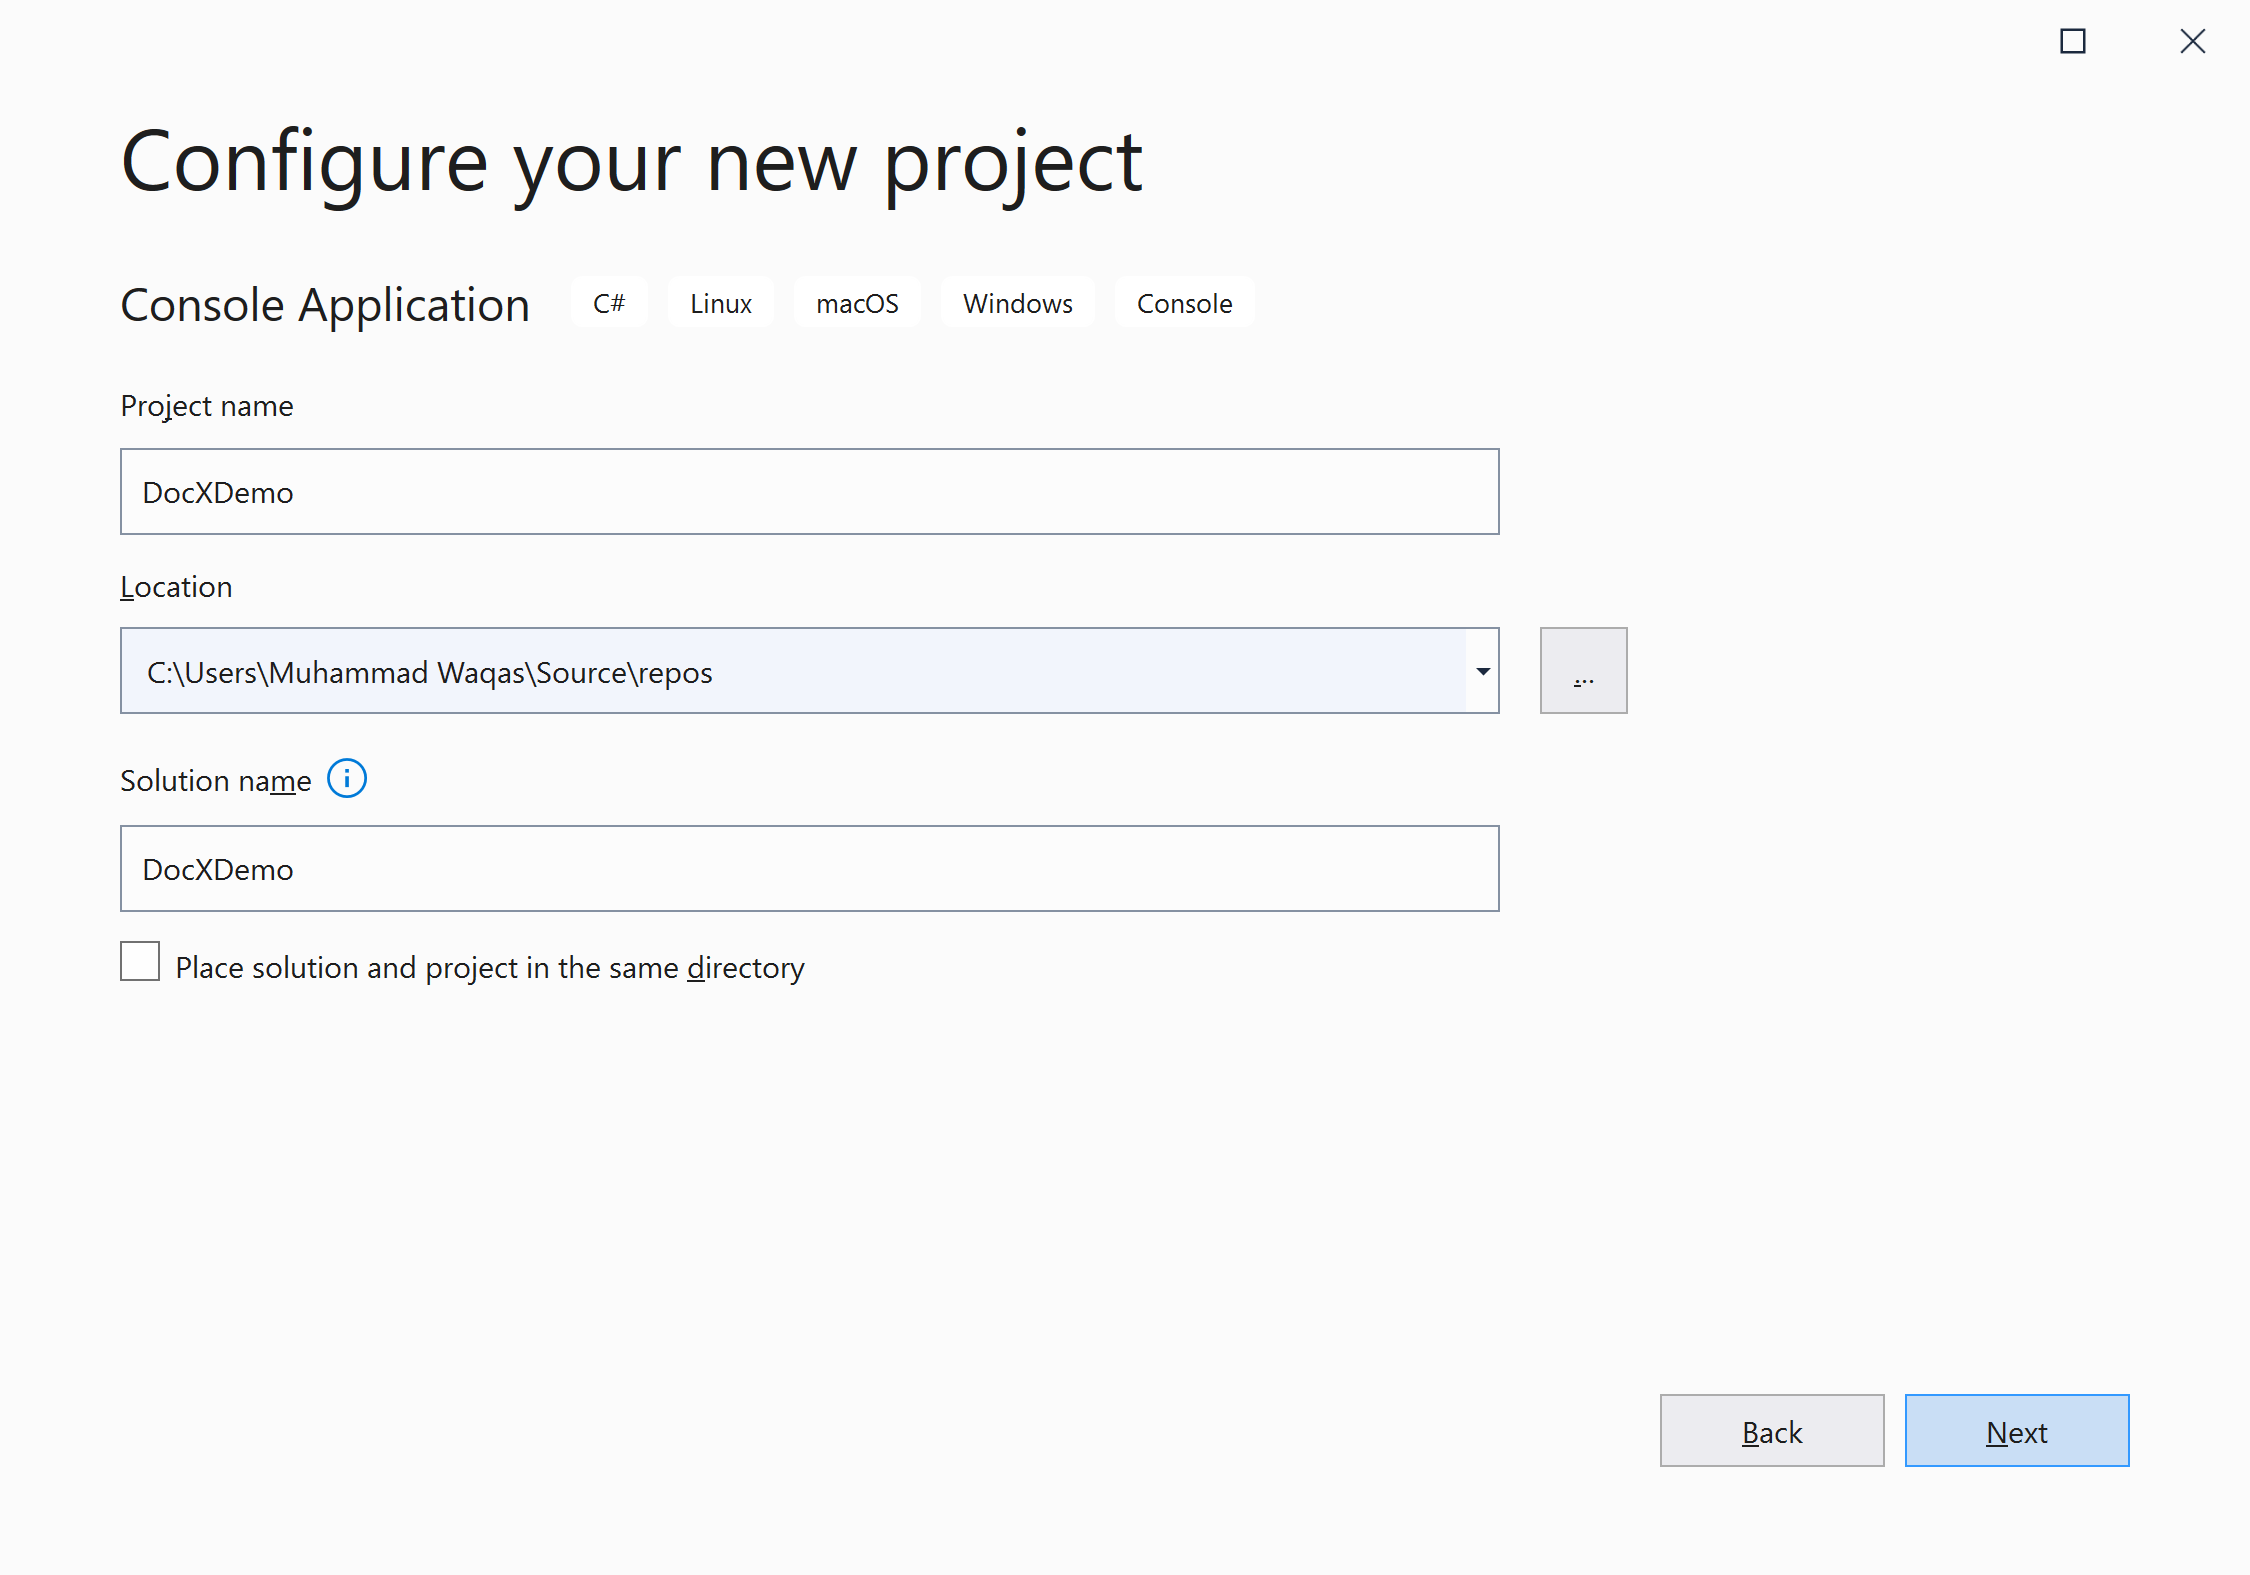
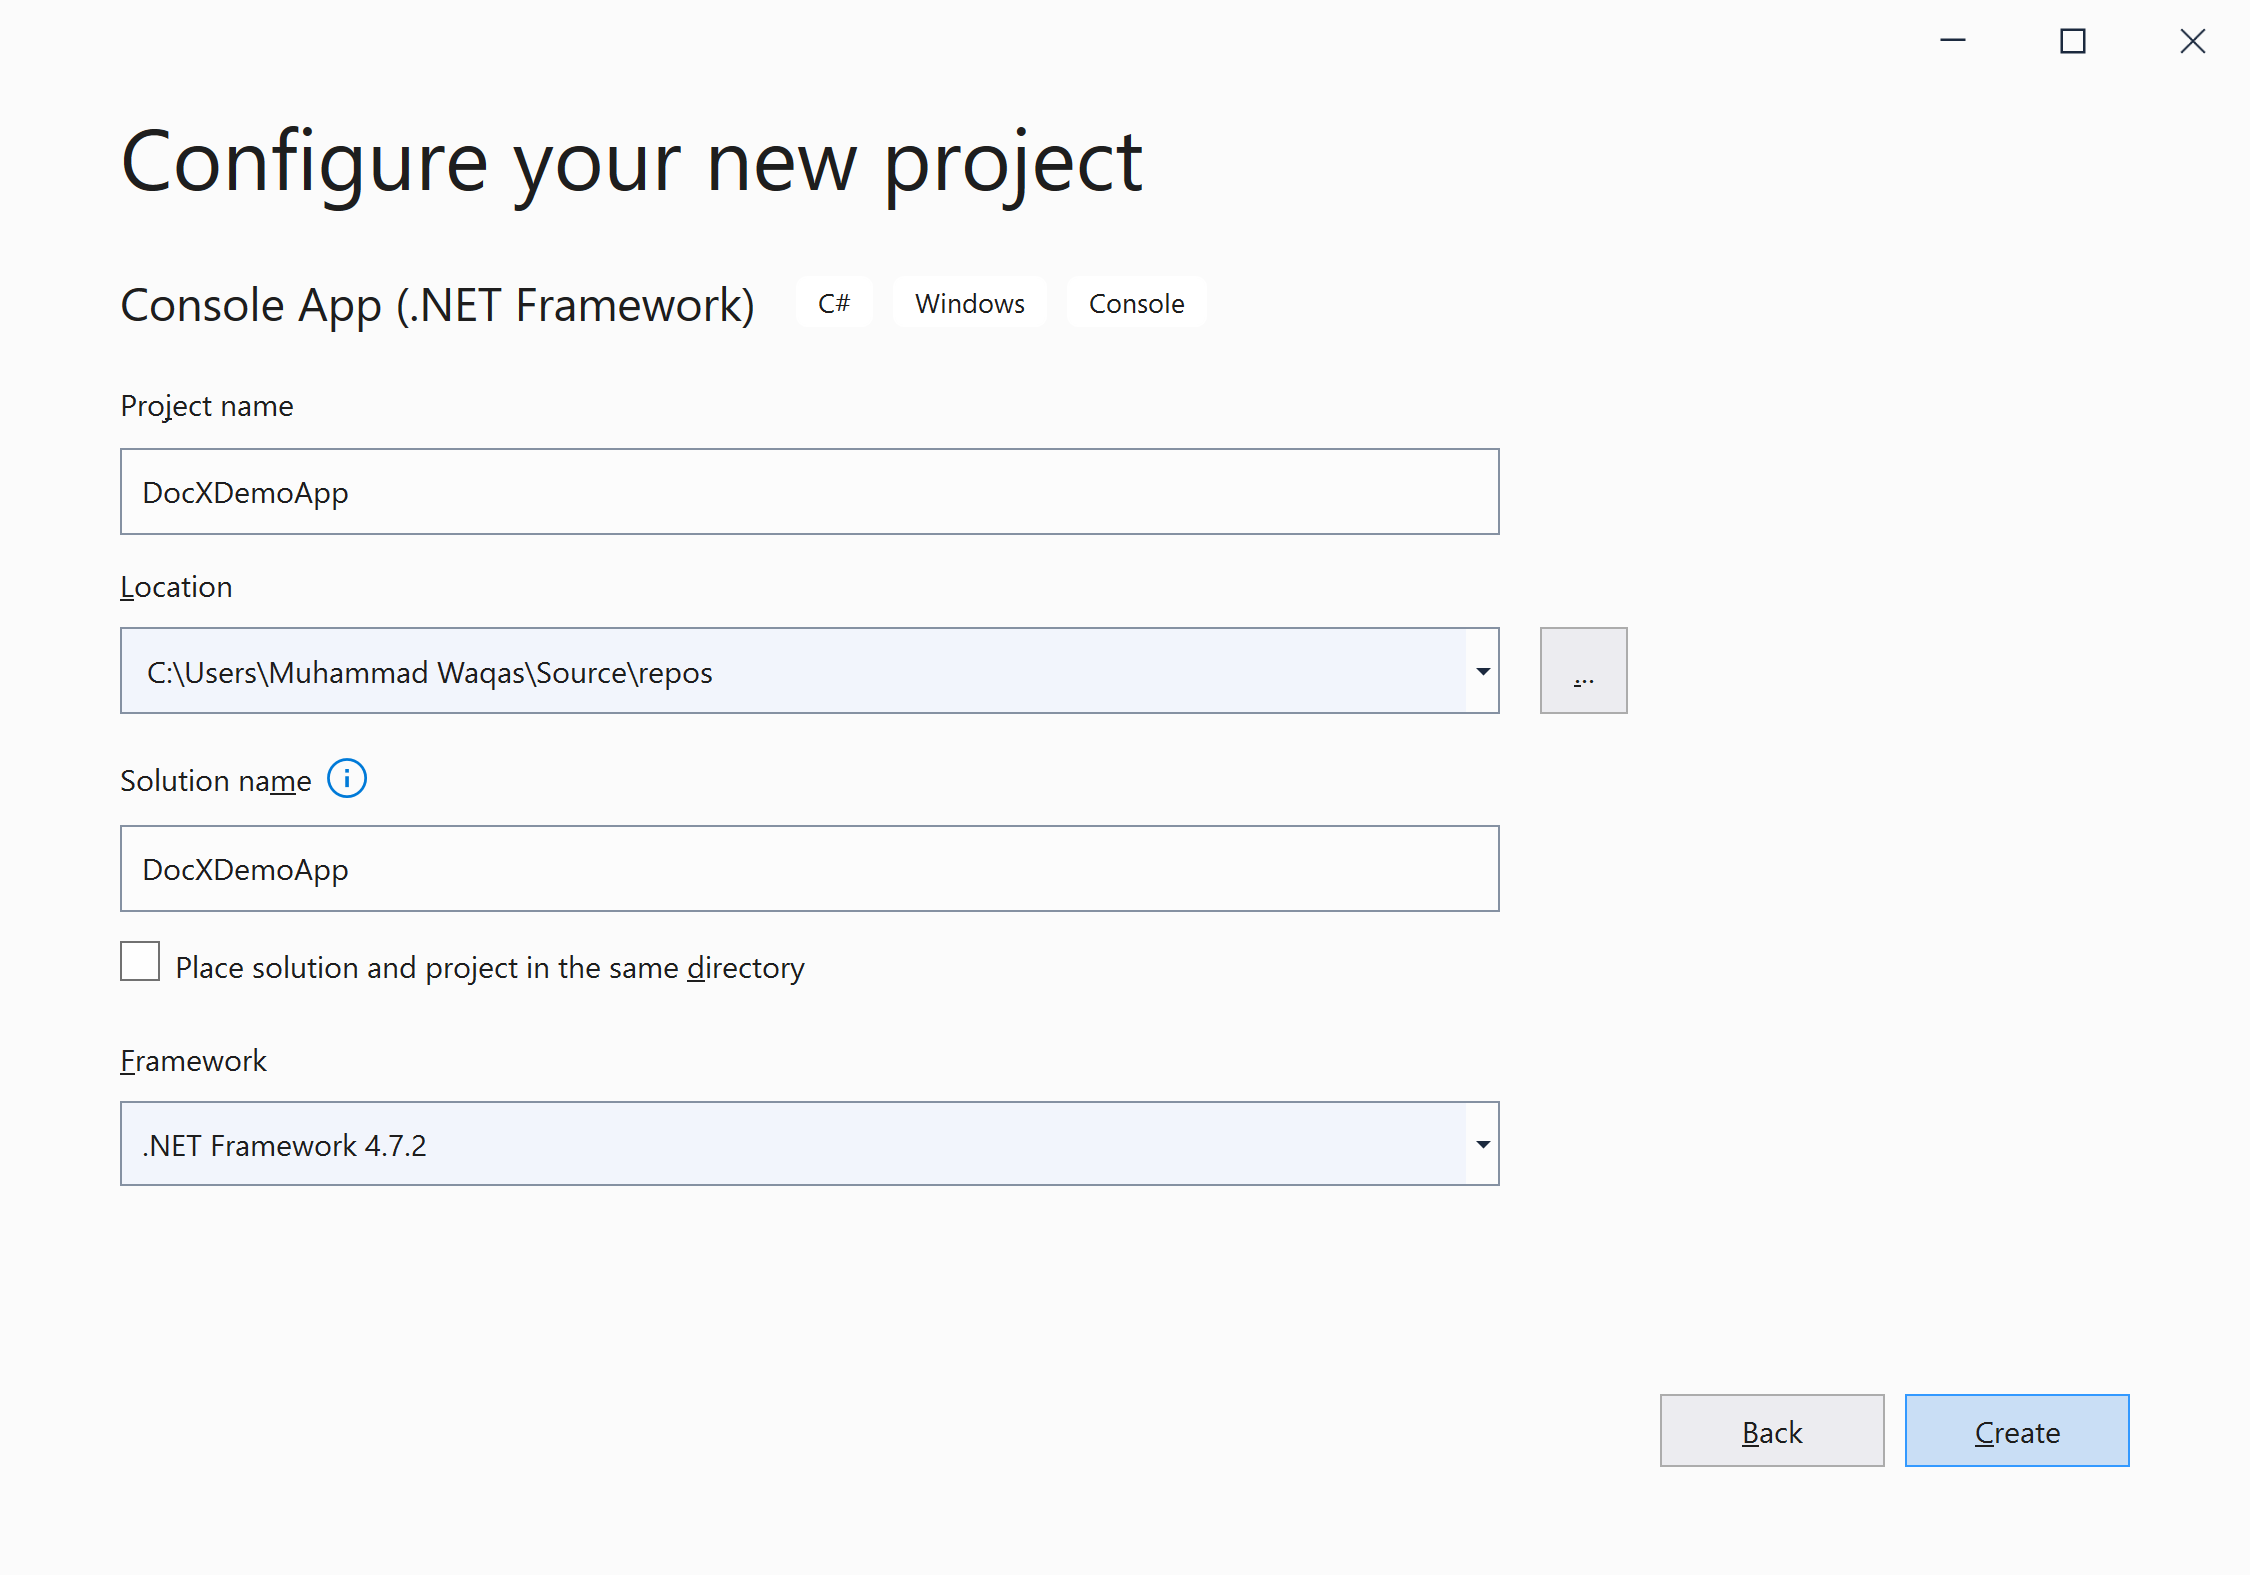
Updated Getting Started article

diff --git a/tutorials/docx/getting-started.md b/tutorials/docx/getting-started.md
@@ -43,24 +43,20 @@ Select the **Create a new project** option.
 
 <img src="images/setup-2.png" alt="Select Console Application template">
 
-Choose **C#** as language, **Windows** as a platform, and **Console** as the project type. In the template pane, select **Console Application** and click the **Next** button.
+Choose **C#** as language, **Windows** as a platform, and **Console** as the project type. In the template pane, select **Console App (.NET Framework)** and click the **Next** button.
 
 <img src="images/setup-3.png" alt="Configure your new project">
 
 Enter the project name, you can change the location and solution name, but we will leave it and click on the **Next** button.  
 
-<img src="images/setup-4.png" alt="Additional Information">
+<img src="images/setup-4.png" alt="Console Application created">
 
-On the **Additional Information** dialog, select the target framework and then click on the **Create** button.  
+You can see a new web application project is created. Now to install an **DocX**, right-click on the project in **Solution Explorer**, and select **Manage NuGet Packages...**
 
-<img src="images/setup-5.png" alt="Console Application created">
-
-You can see a new console application project is created. Now, to install a **DocX**, right-click on the project in **Solution Explorer**, and select **Manage NuGet Packages...**
-
-<img src="images/setup-6.png" alt="Install DocX">
+<img src="images/setup-5.png" alt="Install DocX">
 
 Select the **Browse** tab and search for **DocX** and install the latest version by pressing the **Install** button. 
 
-<img src="images/setup-7.png" alt="DocX installed successfully">
+<img src="images/setup-6.png" alt="DocX installed successfully">
 
 Once **DocX** has been successfully installed. You are now ready to start your application.
